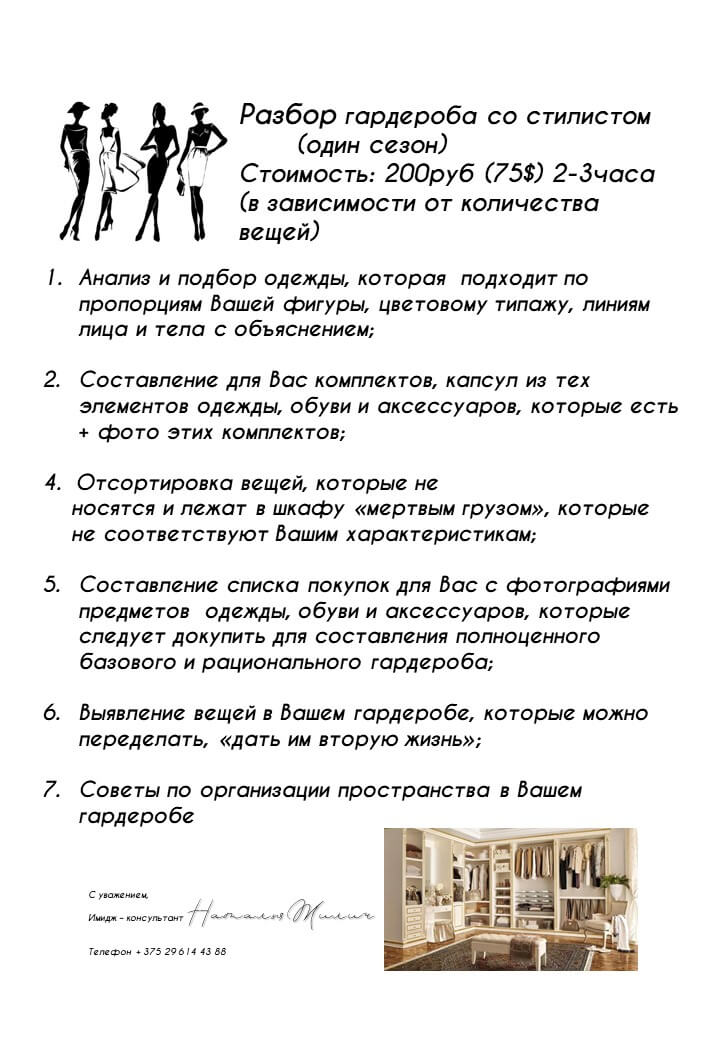
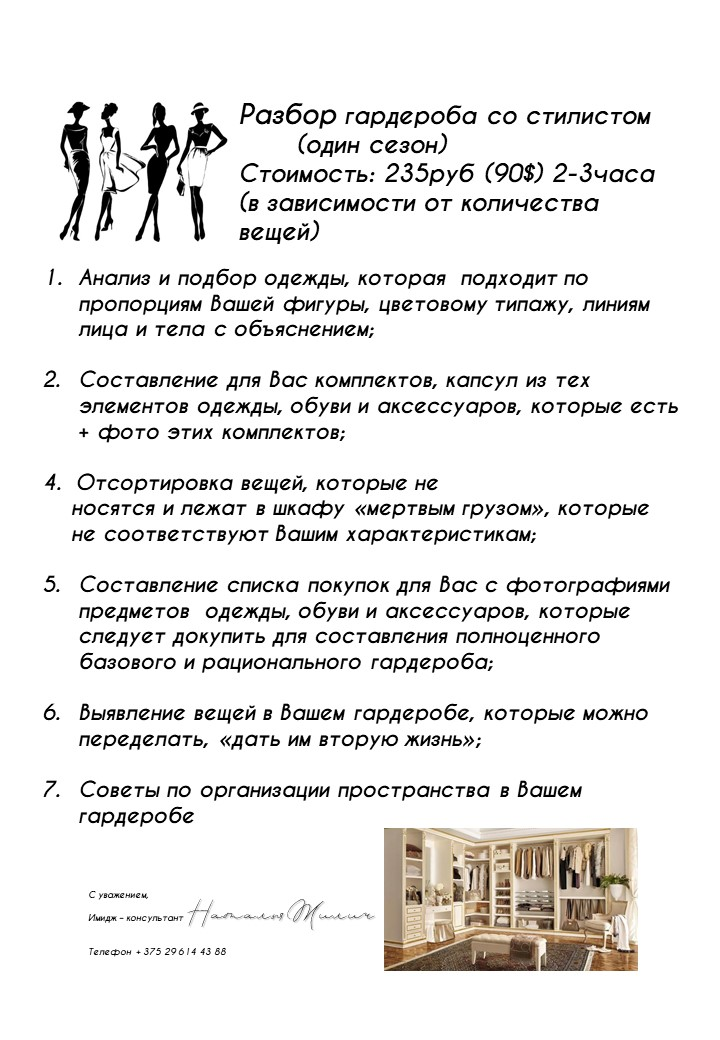
Added gallery, price correction

Changed region(s): [[0.6722, 0.1538, 0.7333, 0.1846], [0.55, 0.1538, 0.6111, 0.1846], [0.3972, 0.0923, 0.4278, 0.1231]]

diff --git a/index.html b/index.html
@@ -51,24 +51,45 @@
         </div>
     </div>
     <div class="wrapper" id="cons">
-        <img src="img/compex.jpg" alt="Консультация" class="priceL">
+        <img src="img/consult.jpg" alt="Консультация" class="priceL">
     </div>
     <div class="wrapper" id="raz">
         <img src="img/razbor.jpg" alt="Разбор" class="priceL">
     </div>
     <div class="wrapper" id="shop">
-        <img src="img/soprov.jpg" alt="Сопровождение" class="priceL">
+        <img src="img/shopping.jpg" alt="Сопровождение" class="priceL">
     </div>
     <div class="wrapper" id="phot">
-        <img src="img/photos.jpg" alt="Фотосет" class="priceL">
+        <img src="img/photoset.jpg" alt="Фотосет" class="priceL">
     </div>
     <div class="wrapper" id="sht">
-        <img src="img/shoptour.jpg" alt="Тур" class="priceL">
+        <img src="img/tour.jpg" alt="Тур" class="priceL">
     </div>
     <div class="wrapper" id="test">
         <iframe src="https://docs.google.com/forms/d/e/1FAIpQLSfN1puOWxGCxNNfiro7wvKa7tqyUOwmbdIA3Dro5CGrNzsnWQ/viewform?embedded=true"height="9579" frameborder="0" marginheight="0" marginwidth="0" id="testFrame">Ładuję…</iframe>
     </div>
-    <div class="wrapper" id="gal"></div>
+    <div class="wrapper" id="gal">
+        <div class="gallery_container">
+            <div class="photoG"><img src="img/gallery/1.jpg"></div>
+            <div class="photoG"><img src="img/gallery/2.jpg"></div>
+            <div class="photoG"><img src="img/gallery/3.jpg"></div>
+            <div class="photoG"><img src="img/gallery/4.jpg"></div>
+            <div class="photoG"><img src="img/gallery/5.jpg"></div>
+            <div class="photoG"><img src="img/gallery/6.jpg"></div>
+            <div class="photoG"><img src="img/gallery/7.jpg"></div>
+            <div class="photoG"><img src="img/gallery/8.jpg"></div>
+            <div class="photoG"><img src="img/gallery/9.jpg"></div>
+            <div class="photoG"><img src="img/gallery/10.jpg"></div>
+            <div class="photoG"><img src="img/gallery/11.jpg"></div>
+            <div class="photoG"><img src="img/gallery/12.jpg"></div>
+            <div class="photoG"><img src="img/gallery/13.jpg"></div>
+            <div class="photoG"><img src="img/gallery/14.jpg"></div>
+            <div class="photoG"><img src="img/gallery/15.jpg"></div>
+            <div class="photoG"><img src="img/gallery/16.jpg"></div>
+            <div class="photoG"><img src="img/gallery/17.jpg"></div>
+            <div class="photoG"><img src="img/gallery/18.jpg"></div>
+        </div>
+    </div>
     <div class="footer">
         <ul id="footUl">
             <li class="footBut"><a href="https://vk.com/natalyshazh" class="footA"><img src="icon/vk.png" alt="vk" class="imgF"></a></li>

diff --git a/style.css b/style.css
@@ -107,7 +107,8 @@ body,html {
     background-color: #505050;
     height: 120px;
     width: 100%;
-    line-height: 120px;
+    display: flex;
+    align-items: center;
 }
 .priceL {
     height: 800px;
@@ -134,6 +135,15 @@ body,html {
 .glavf img{
     width: 120px;
     border-radius: 5px;
+}
+.gallery_container {
+    margin: 40px;
+    display: flex;
+    flex-wrap: wrap;
+    gap: 20px;
+}
+.photoG img{
+    height: 250px;
 }
 @media screen and (max-width:1000px) {
     #tezdiv {
